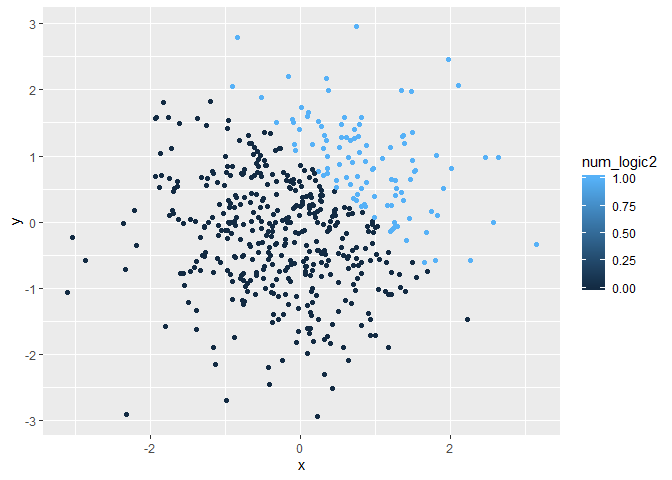
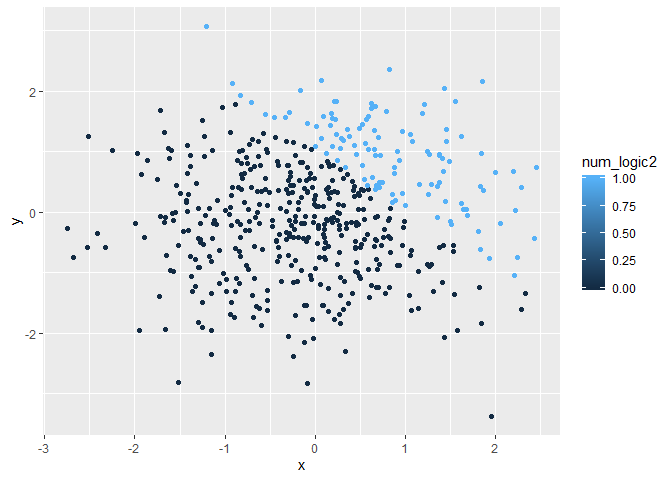
I changed the code chunk scatter_plots and made the formatting a little nicer :)

diff --git a/p8105_hw1_ha2546.md b/p8105_hw1_ha2546.md
@@ -23,14 +23,14 @@ sample_mean = mean(pull(prob1_df, vec_sample))
 sample_mean
 ```
 
-    ## [1] 0.1841527
+    ## [1] -0.5781355
 
 ``` r
 logic_mean = mean(pull(prob1_df, vec_logic))
 logic_mean
 ```
 
-    ## [1] 0.5
+    ## [1] 0.25
 
 ``` r
 char_mean = mean(pull(prob1_df, vec_char))
@@ -80,7 +80,7 @@ as.numeric(pull(prob1_df, vec_char))
 as.numeric(pull(prob1_df, vec_factor))
 ```
 
-    ## [1] 0 0 1 1 1 0 0 1
+    ## [1] 0 1 0 0 0 1 0 0
     ## [1] NA NA NA NA NA NA NA NA
     ## [1] 2 1 3 3 1 1 1 1
 
@@ -111,8 +111,8 @@ num_logic_calc = pull(prob1_df, vec_sample) * num_logic
 num_logic_calc
 ```
 
-    ## [1] 0.0000000 0.0000000 0.1360987 1.6888280 0.6933458 0.0000000 0.0000000
-    ## [8] 0.2803950
+    ## [1] 0.0000000 0.1213427 0.0000000 0.0000000 0.0000000 0.3720995 0.0000000
+    ## [8] 0.0000000
 
 ``` r
 factor_logic = as.factor(pull(prob1_df, vec_logic))
@@ -126,7 +126,7 @@ factor_logic_calc1 = pull(prob1_df, vec_sample) * factor_logic
 factor_logic
 ```
 
-    ## [1] FALSE FALSE TRUE  TRUE  TRUE  FALSE FALSE TRUE 
+    ## [1] FALSE TRUE  FALSE FALSE FALSE TRUE  FALSE FALSE
     ## Levels: FALSE TRUE
 
 ``` r
@@ -141,14 +141,14 @@ factor_logic_calc2 = pull(prob1_df, vec_sample) * num_factor_logic
 num_factor_logic
 ```
 
-    ## [1] 1 1 2 2 2 1 1 2
+    ## [1] 1 2 1 1 1 2 1 1
 
 ``` r
 factor_logic_calc2
 ```
 
-    ## [1] -0.03317776 -0.48509948  0.27219743  3.37765594  1.38669167 -0.52409727
-    ## [7] -0.28307125  0.56079005
+    ## [1] -0.5832236  0.2426853 -0.8855308 -0.8951417 -0.4725438  0.7441989
+    ## [7] -0.5318271 -1.7502592
 
   - **Results**
 
@@ -178,9 +178,9 @@ prob2_df = tibble(
 ```
 
 The size of my dataset is 500, 5; which means it has 500 rows and
-5columns. The mean of x is -0.0546353, its median is -0.0453207, and its
-standard deviation is 0.9463173. The proportion of cases for which x + y
-\> 1 is 0.0412
+5columns. The mean of x is -0.0238248, its median is 0.0022949, and its
+standard deviation is 0.9780257. The proportion of cases for which x + y
+\> 1 is 0.046
 
 ## 2.2
 
